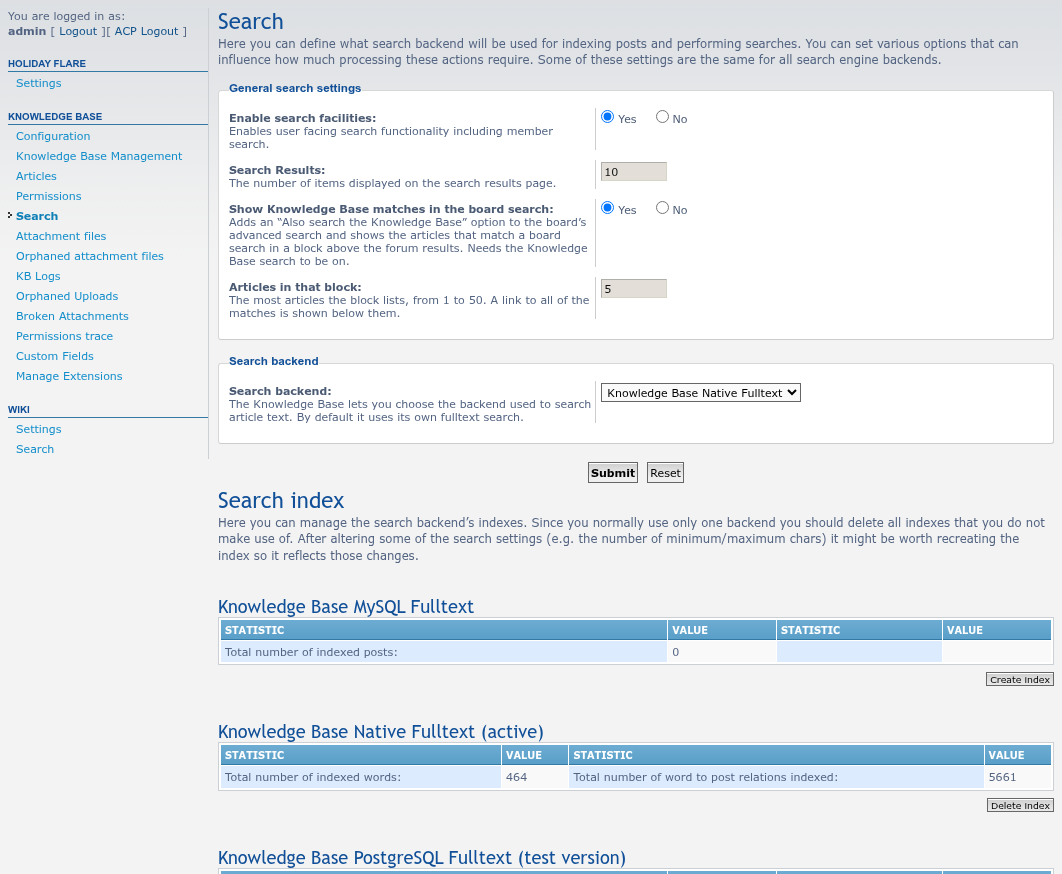
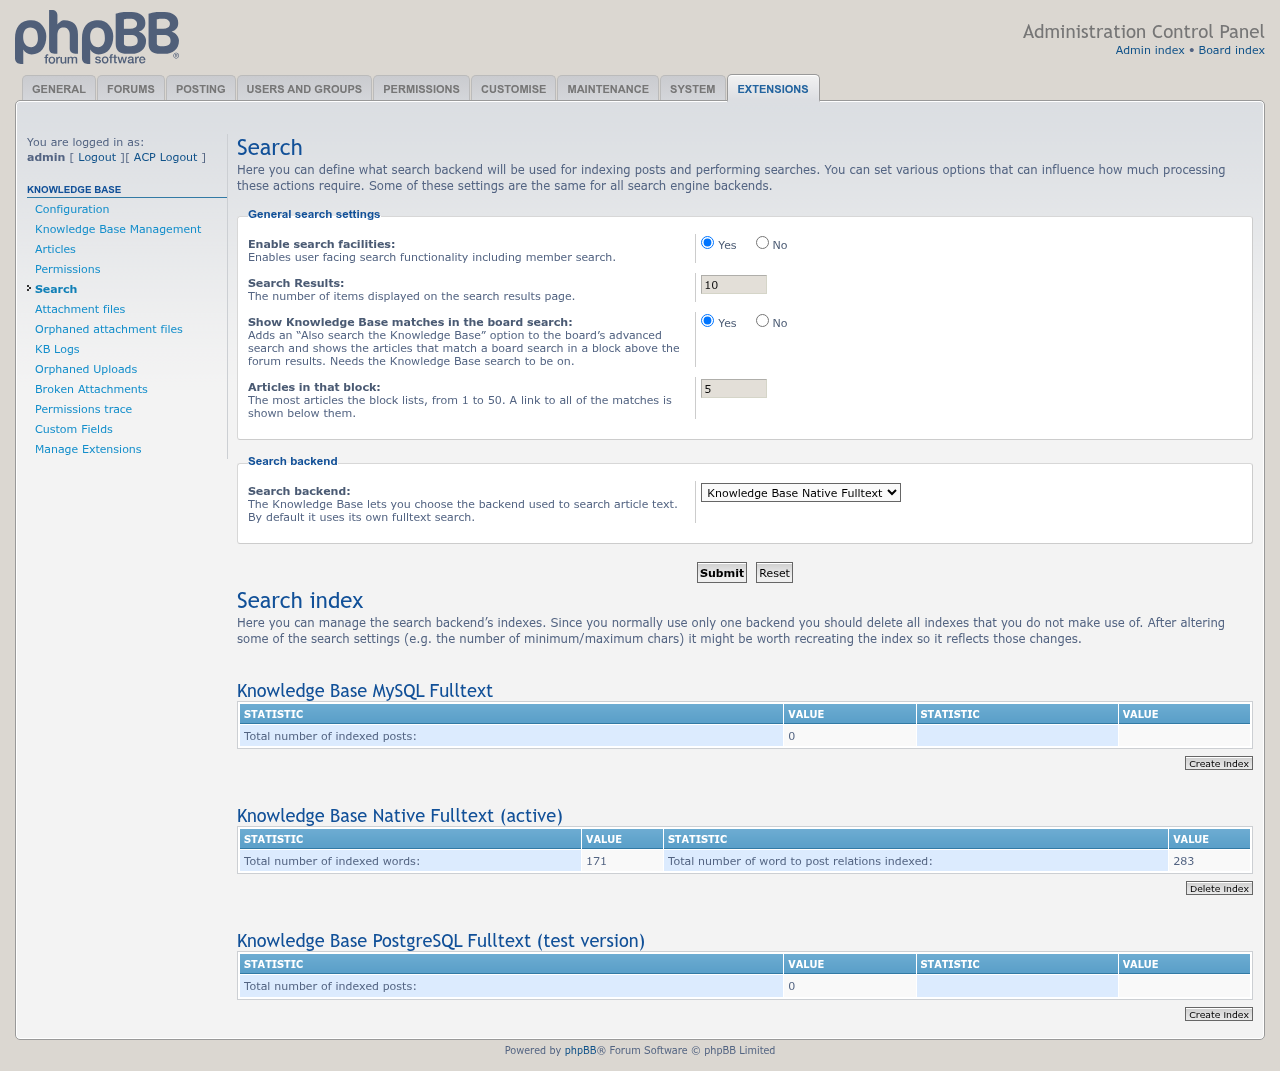
Retake the screenshots with the shared tool, and show the whole ACP pages
The twelve gallery screenshots came from one-off scripts. The Configuration
page was cut off at the window height and had no Recent changes feed
setting. They are now taken by phpbb-release-tools' screenshots.py, with
the two ACP pages in full, and the captions match them.

diff --git a/docs/images/screenshots/README.md b/docs/images/screenshots/README.md
@@ -1,6 +1,14 @@
 # Knowledge Base screenshots
 
-Taken with Playwright on a throwaway phpBB 3.3.19 board (prosilver, SQLite) filled with test articles, as an administrator. The flat article index is the default; the category tree needs **Hierarchical category browsing** switched on under **Extensions > Knowledge Base > Configuration**.
+Taken with Playwright by `phpbb-test-board/screenshots.py` in [phpbb-release-tools](https://github.com/phpbbmodders/phpbb-release-tools) on a throwaway phpBB 3.3 board (prosilver, SQLite) filled with example articles and forum questions, as an administrator. The flat article index is the default; the category tree needs **Hierarchical category browsing** switched on under **Extensions > Knowledge Base > Configuration**.
+
+A change that alters a page shown here means retaking them, with the extension's own entry in that script:
+
+```bash
+phpbb-release-tools/phpbb-test-board/screenshots.py path/to/knowledgebase -o path/to/knowledgebase/docs/images/screenshots --seed path/to/seed-forum/bin/seed-standard-fixtures.php
+```
+
+The two ACP pages are taken in full, so a setting further down the page is not cut off.
 
 ## The flat article index
 
@@ -52,13 +60,13 @@ Results of a search on the Knowledge Base's own search page.
 
 ## ACP configuration
 
-**Extensions > Knowledge Base > Configuration**, with the hierarchical browsing and alternative stylesheet settings.
+**Extensions > Knowledge Base > Configuration**, the whole page: the announcement and changelog forums, hierarchical browsing, the alternative stylesheet, the **Recent changes feed** (RSS, Atom or both), the number of articles per page, the description length and the sorting order, then the attachment settings, the review teams and the contact group.
 
 ![The configuration page in the ACP](07-acp-configuration.png)
 
 ## Knowledge Base articles in the board's search
 
-A search in phpBB's own search for `backup`. The **Knowledge Base (34)** block sits above the forum results and lists the best matches with their category, a snippet with the word marked and a link to all of them; the forum post that asks about backups is the first of the forum results below it. Switch the block off, or set how many articles it lists, in the ACP.
+A search in phpBB's own search for `backup`. The **Knowledge Base (4)** block sits above the forum results and lists the best matches with their category, a snippet with the word marked and a link to all of them; the forum post that asks about backups is the first of the forum results below it. Switch the block off, or set how many articles it lists, in the ACP.
 
 ![The board search with a Knowledge Base block above a forum post](09-board-search-kb-block.png)
 
